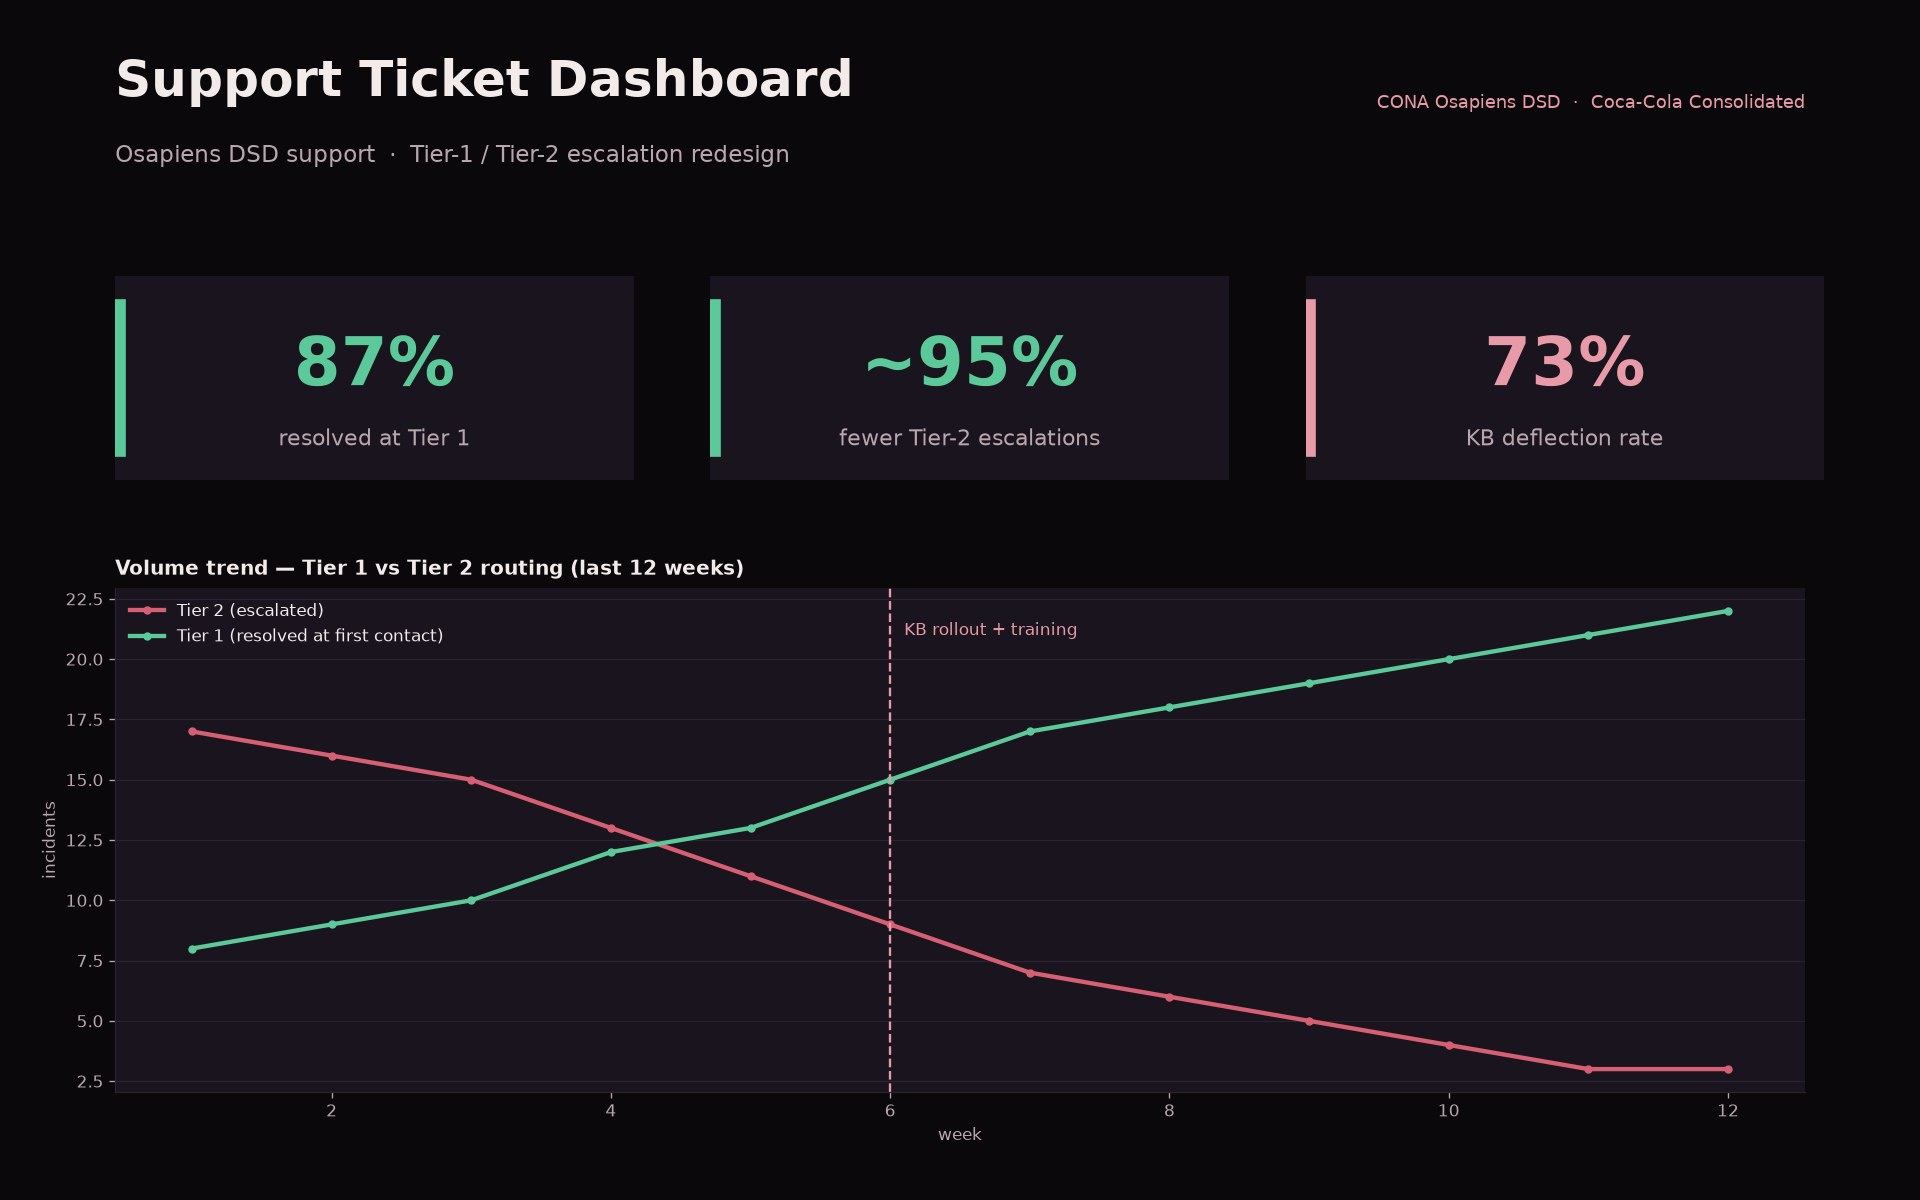
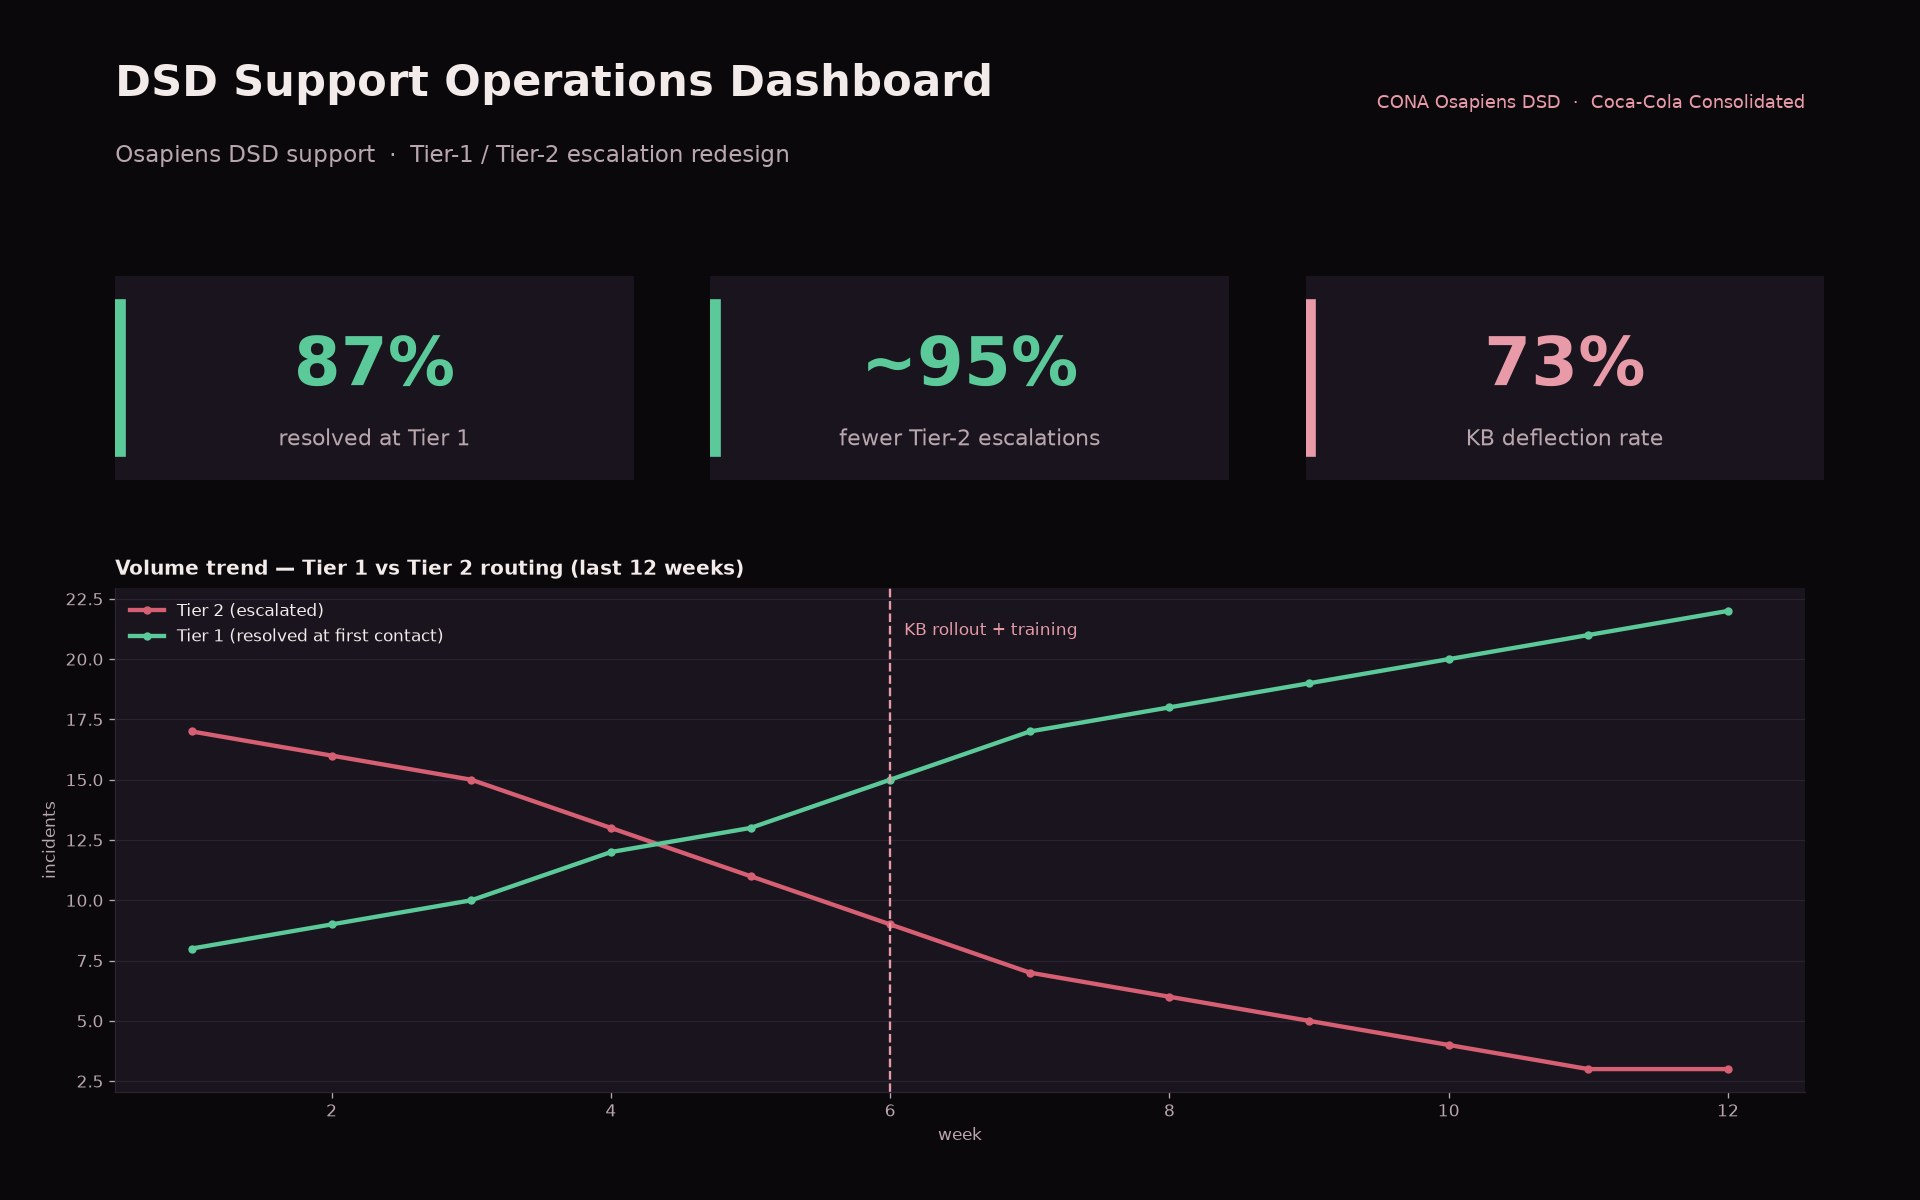
Order gallery to dashboard tab sequence; align header to real name
Gallery now follows the dashboard's own tabs: Personalized, Team
Overview, Service Center. Rename the project and hero cover to the real
dashboard header, DSD Support Operations Dashboard, and update the
metrics key to match.

Changed region(s): [[0.0625, 0.0308, 0.5312, 0.0925]]

diff --git a/components/Portfolio.jsx b/components/Portfolio.jsx
@@ -130,14 +130,14 @@ const PROJECTS = [
     },
   },
   {
-    cat: "Power Apps & Data", kind: "Data", title: "Support Ticket Dashboard",
+    cat: "Power Apps & Data", kind: "Data", title: "DSD Support Operations Dashboard",
     body: "A ServiceNow analytics dashboard for Osapiens, the DSD (direct store delivery) routing app at Coca-Cola Consolidated. It monitors a redesigned support model: Tier-1 vs Tier-2 routing, knowledge-base deflection, SLA health, and vendor escalations, so the team can see at a glance where work is being resolved and what to fix next. Visuals recreated without internal data for confidentiality.",
     tags: ["ServiceNow", "Knowledge Base", "Process Design", "Business Analysis"],
     image: "/assets/SupportDashHero.jpg", tall: true,
     images: [
+      "/assets/SupportDashPersonal.jpg",
       "/assets/SupportDashTeam.jpg",
       "/assets/SupportDashService.jpg",
-      "/assets/SupportDashPersonal.jpg",
     ],
     company: "Coca-Cola Consolidated", role: "IT Business Analyst II",
     study: {
@@ -206,7 +206,7 @@ const CAT_GRADIENT = {
 // Result highlights per project (qualitative stat-style — swap in real
 // numbers like donations raised, users, traffic, or time saved any time).
 const METRICS = {
-  "Support Ticket Dashboard": [
+  "DSD Support Operations Dashboard": [
     { value: "~95% fewer", label: "Tier 2 escalations: 5+/day to 2-3/week" },
     { value: "On-call ended", label: "After-hours absorbed by Tier 1 (SCT)" },
     { value: "73% KB deflection", label: "New articles let first-line self-serve" },